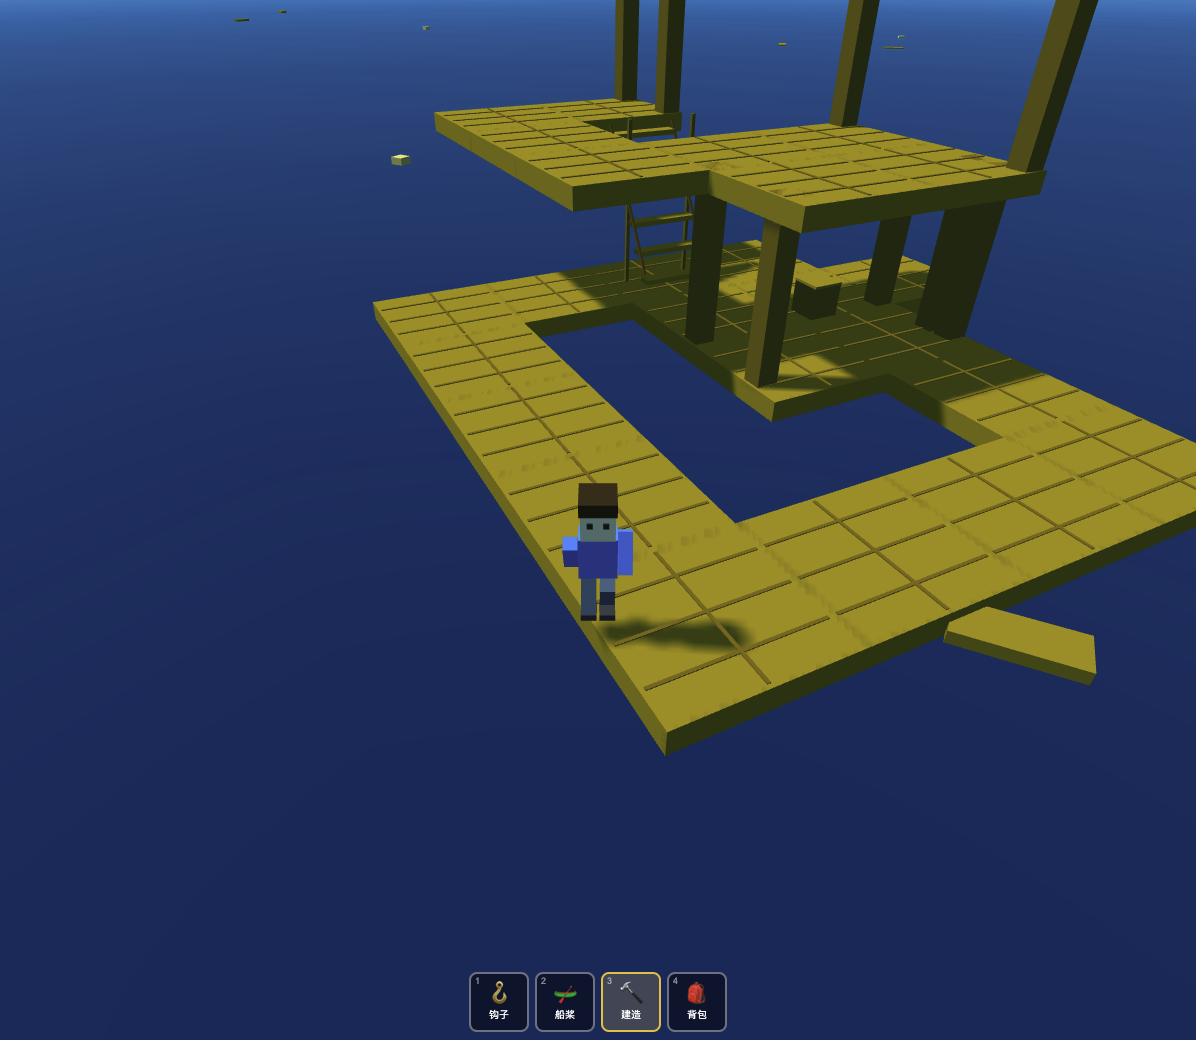
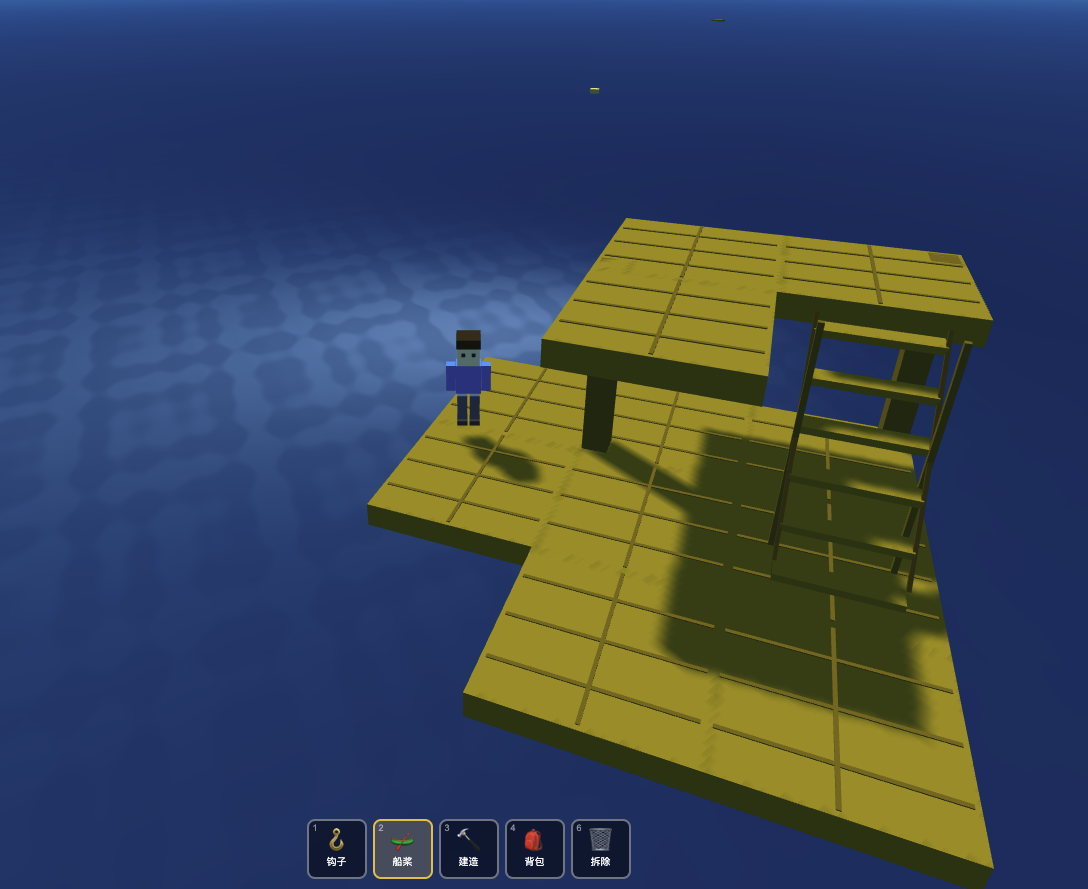
feat: sea

diff --git a/index.html b/index.html
@@ -201,12 +201,12 @@ class Ocean {
         'void main(){',
         '  vec3 pos = position;',
         '  float wx = pos.x + uCamPos.x;',
-        '  float wy = pos.y + uCamPos.z;',
+        '  float wy = pos.y - uCamPos.z;',
         /* Gentle vertex wave displacement */
         '  pos.z = sin(wx * 0.05 + uTime * 0.5) * 0.08 + cos(wy * 0.07 + uTime * 0.3) * 0.05;',
         /* Secondary smaller ripple */
         '  pos.z += sin(wx * 0.15 + uTime * 0.8) * 0.02 + cos(wy * 0.12 + uTime * 0.6) * 0.02;',
-        '  vWorldPos = vec3(pos.x + uCamPos.x, 0.0, pos.y + uCamPos.z);',
+        '  vWorldPos = vec3(pos.x + uCamPos.x, 0.0, pos.y - uCamPos.z);',
         '  vDist = length(vWorldPos - uCamPos);',
         '  gl_Position = projectionMatrix * modelViewMatrix * vec4(pos, 1.0);',
         '}'
@@ -223,31 +223,117 @@ class Ocean {
         'uniform vec3 uCamPos;',
         'varying vec3 vWorldPos;',
         'varying float vDist;',
-        /* Simple ripple normal function for specular highlights */
-        'vec3 getRippleNormal(vec2 p, float t) {',
-        '  float e = 0.3;',
-        '  float h0 = sin(p.x*0.3+t*0.7)*0.02 + cos(p.y*0.25+t*0.5)*0.02 + sin(p.x*0.8+p.y*0.6+t*1.2)*0.008;',
-        '  float hx = sin((p.x+e)*0.3+t*0.7)*0.02 + cos(p.y*0.25+t*0.5)*0.02 + sin((p.x+e)*0.8+p.y*0.6+t*1.2)*0.008;',
-        '  float hy = sin(p.x*0.3+t*0.7)*0.02 + cos((p.y+e)*0.25+t*0.5)*0.02 + sin(p.x*0.8+(p.y+e)*0.6+t*1.2)*0.008;',
-        '  return normalize(vec3(h0-hx, e, h0-hy));',
+        /* Multi-layer water surface normal with细碎波浪 */
+        'vec3 getWaterNormal(vec2 p, float t) {',
+        '  float e = 0.1;',
+        '  vec3 n = vec3(0.0, 1.0, 0.0);',
+        '  ',
+        '  // Layer 1: Large gentle waves',
+        '  float h1 = sin(p.x * 0.3 + t * 0.7) * 0.03 + cos(p.y * 0.25 + t * 0.5) * 0.025;',
+        '  ',
+        '  // Layer 2: Medium ripples',
+        '  h1 += sin(p.x * 0.8 + p.y * 0.6 + t * 1.2) * 0.012;',
+        '  h1 += cos(p.x * 1.1 - p.y * 0.7 + t * 0.9) * 0.01;',
+        '  ',
+        '  // Layer 3: Small detailed ripples (细碎波浪)',
+        '  h1 += sin(p.x * 2.5 + t * 2.0) * 0.005;',
+        '  h1 += cos(p.y * 2.8 - t * 1.8) * 0.004;',
+        '  h1 += sin(p.x * 4.0 + p.y * 3.5 + t * 2.5) * 0.003;',
+        '  ',
+        '  // Layer 4: Micro ripples for sparkling effect',
+        '  h1 += sin(p.x * 8.0 + t * 3.0) * 0.002;',
+        '  h1 += cos(p.y * 9.0 - t * 3.5) * 0.0015;',
+        '  h1 += sin((p.x + p.y) * 12.0 + t * 4.0) * 0.001;',
+        '  ',
+        '  // Calculate derivatives for normal',
+        '  float h2 = sin((p.x+e) * 0.3 + t * 0.7) * 0.03 + cos(p.y * 0.25 + t * 0.5) * 0.025;',
+        '  h2 += sin((p.x+e) * 0.8 + p.y * 0.6 + t * 1.2) * 0.012;',
+        '  h2 += cos((p.x+e) * 1.1 - p.y * 0.7 + t * 0.9) * 0.01;',
+        '  h2 += sin((p.x+e) * 2.5 + t * 2.0) * 0.005;',
+        '  h2 += cos(p.y * 2.8 - t * 1.8) * 0.004;',
+        '  h2 += sin((p.x+e) * 4.0 + p.y * 3.5 + t * 2.5) * 0.003;',
+        '  h2 += sin((p.x+e) * 8.0 + t * 3.0) * 0.002;',
+        '  h2 += cos(p.y * 9.0 - t * 3.5) * 0.0015;',
+        '  h2 += sin(((p.x+e) + p.y) * 12.0 + t * 4.0) * 0.001;',
+        '  ',
+        '  float h3 = sin(p.x * 0.3 + t * 0.7) * 0.03 + cos((p.y+e) * 0.25 + t * 0.5) * 0.025;',
+        '  h3 += sin(p.x * 0.8 + (p.y+e) * 0.6 + t * 1.2) * 0.012;',
+        '  h3 += cos(p.x * 1.1 - (p.y+e) * 0.7 + t * 0.9) * 0.01;',
+        '  h3 += sin(p.x * 2.5 + t * 2.0) * 0.005;',
+        '  h3 += cos((p.y+e) * 2.8 - t * 1.8) * 0.004;',
+        '  h3 += sin(p.x * 4.0 + (p.y+e) * 3.5 + t * 2.5) * 0.003;',
+        '  h3 += sin(p.x * 8.0 + t * 3.0) * 0.002;',
+        '  h3 += cos((p.y+e) * 9.0 - t * 3.5) * 0.0015;',
+        '  h3 += sin((p.x + (p.y+e)) * 12.0 + t * 4.0) * 0.001;',
+        '  ',
+        '  n.x = h1 - h2;',
+        '  n.z = h1 - h3;',
+        '  return normalize(n);',
         '}',
+        '',
         'void main(){',
         /* Depth gradient: near=deep, far=light */
         '  float t1 = clamp(vDist / 120.0, 0.0, 1.0);',
         '  float t2 = clamp((vDist - 120.0) / 300.0, 0.0, 1.0);',
         '  vec3 baseColor = mix(uDeepColor, uMidColor, t1);',
         '  baseColor = mix(baseColor, uFarColor, t2);',
-        /* Ripple-based specular */
-        '  vec3 N = getRippleNormal(vWorldPos.xz, uTime);',
+        '  ',
+        '  // Get detailed water surface normal',
+        '  vec3 N = getWaterNormal(vWorldPos.xz, uTime);',
         '  vec3 viewDir = normalize(uCamPos - vWorldPos);',
+        '  ',
+        '  // Sun reflection direction',
+        '  vec3 reflectDir = reflect(-uSunDir, N);',
+        '  float sunReflect = max(dot(reflectDir, viewDir), 0.0);',
+        '  ',
+        '  // Softer, more natural specular highlights',
         '  vec3 halfDir = normalize(uSunDir + viewDir);',
-        '  float spec = pow(max(dot(N, halfDir), 0.0), 60.0) * 0.35;',
-        /* Subtle Fresnel for edge brightness */
-        '  float fresnel = pow(1.0 - max(dot(N, viewDir), 0.0), 3.0) * 0.15;',
-        '  vec3 col = baseColor + vec3(spec) + vec3(fresnel);',
-        /* Fog */
+        '  ',
+        '  // Broader highlights with lower intensity (不刺眼)',
+        '  float spec1 = pow(max(dot(N, halfDir), 0.0), 60.0) * 0.15;',
+        '  float spec2 = pow(max(dot(N, halfDir), 0.0), 30.0) * 0.2;',
+        '  float spec3 = pow(max(dot(N, halfDir), 0.0), 15.0) * 0.15;',
+        '  ',
+        '  // Combine for gentle sparkle',
+        '  float totalSpec = spec1 + spec2 + spec3;',
+        '  ',
+        '  // Distributed micro-sparkles (连续分布的细碎光斑)',
+        '  vec2 microCoord = vWorldPos.xz * 3.0;',
+        '  float microWave1 = sin(microCoord.x * 1.2 + uTime * 1.5) * cos(microCoord.y * 1.1 - uTime * 1.3);',
+        '  float microWave2 = cos(microCoord.x * 1.8 - uTime * 1.8) * sin(microCoord.y * 1.5 + uTime * 1.6);',
+        '  float microWave3 = sin(microCoord.x * 2.5 + microCoord.y * 2.3 + uTime * 2.0) * 0.5;',
+        '  ',
+        '  // Smoother micro pattern',
+        '  float microPattern = (microWave1 + microWave2 + microWave3) * 0.33 + 0.5;',
+        '  microPattern = smoothstep(0.3, 0.7, microPattern);',
+        '  ',
+        '  // Gentle sparkle modulation (柔和的闪烁)',
+        '  float microSpec = microPattern * pow(max(dot(N, halfDir), 0.0), 25.0) * 0.12;',
+        '  ',
+        '  // Fresnel effect (subtle)',
+        '  float viewAngle = max(dot(N, viewDir), 0.0);',
+        '  float fresnel = pow(1.0 - viewAngle, 3.0) * 0.2;',
+        '  ',
+        '  // Gentle angle boost',
+        '  float angleBoost = 1.0 + (1.0 - viewAngle) * 0.8;',
+        '  ',
+        '  // Distance fade',
+        '  float distFade = 1.0 - clamp(vDist / 250.0, 0.0, 1.0);',
+        '  ',
+        '  // Combine sparkles with lower intensity',
+        '  vec3 sparkleColor = vec3(1.0, 1.0, 0.96);',
+        '  vec3 sparkles = sparkleColor * (totalSpec + microSpec) * angleBoost * distFade * 0.6;',
+        '  ',
+        '  // Base color with subtle brightness variation',
+        '  vec3 deepReflect = mix(baseColor, vec3(0.3, 0.6, 0.85), fresnel * 0.3);',
+        '  ',
+        '  // Final color with gentler composition',
+        '  vec3 col = deepReflect + sparkles + vec3(fresnel * 0.08);',
+        '  ',
+        '  // Fog',
         '  float fogFactor = clamp((vDist - uFogNear) / (uFogFar - uFogNear), 0.0, 1.0);',
         '  col = mix(col, uFogColor, fogFactor);',
+        '  ',
         '  gl_FragColor = vec4(col, 0.88);',
         '}'
       ].join('\n'),

diff --git a/prompt.md b/prompt.md
@@ -76,3 +76,6 @@ W 和 S 的方向反了，另外获得的木板也可以建造柱子和楼梯，
 ---
 
 建造的时候，默认层数应该是人物所在的当前层，另外在操作栏新增一个”观察模式“，进入观察模式后，比人物当前所在层更高的层数变成半透明的，方便玩家观察和建造，也可以退出观察模式
+
+---
+实现海面波光粼粼的效果，使用shader 实现虽然没有浪，但是海面有波光粼粼的效果，需要海洋水面，波光粼粼，阳光照射下无数细碎闪烁的高光，动态涟漪与小波浪，晶莹剔透的折射与反射
